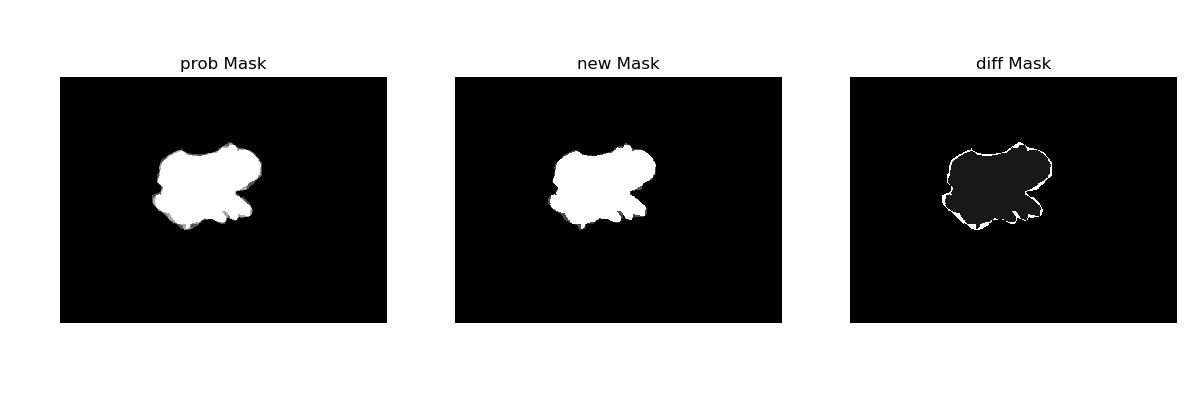
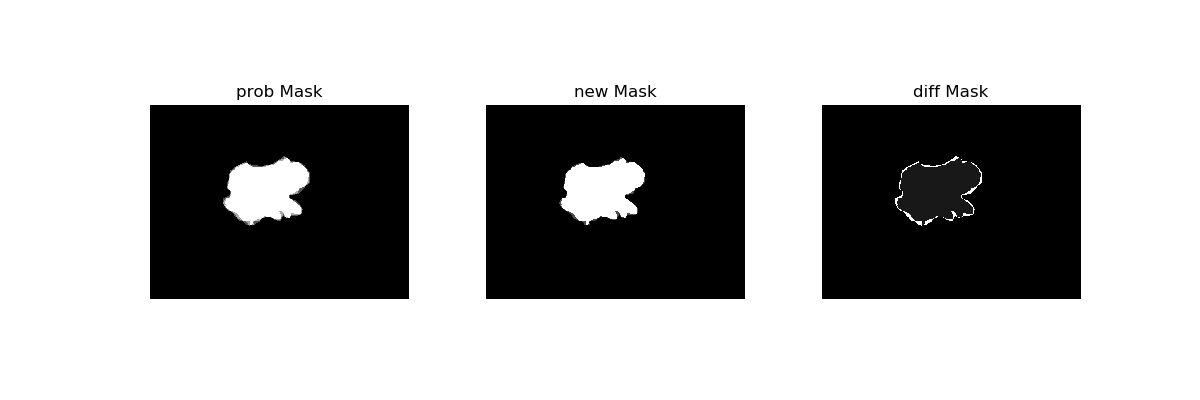
plot

diff --git a/bin/maximum_likelihood_gt.py b/bin/maximum_likelihood_gt.py
@@ -184,7 +184,7 @@ def plot_comparison_PIL(array_prob, new_mask_uint8, save_path, idx):
     # combined_image.paste(image_diff, (image_prob.width * 2, 0))
 
     # Create a new figure with three subplots
-    fig, axs = plt.subplots(1, 3, figsize=(12, 4))
+    fig, axs = plt.subplots(1, 3, figsize = (12, 4))
 
     # Display the images in the subplots
     axs[0].imshow(image_prob, cmap = 'gray')
@@ -200,7 +200,7 @@ def plot_comparison_PIL(array_prob, new_mask_uint8, save_path, idx):
     axs[2].axis("off")
 
     # Adjust the spacing between subplots
-    plt.tight_layout()
+    plt.subplots_adjust(wspace = 0.3)
 
     # Save the combined image
     os.makedirs(save_path, exist_ok = True)
